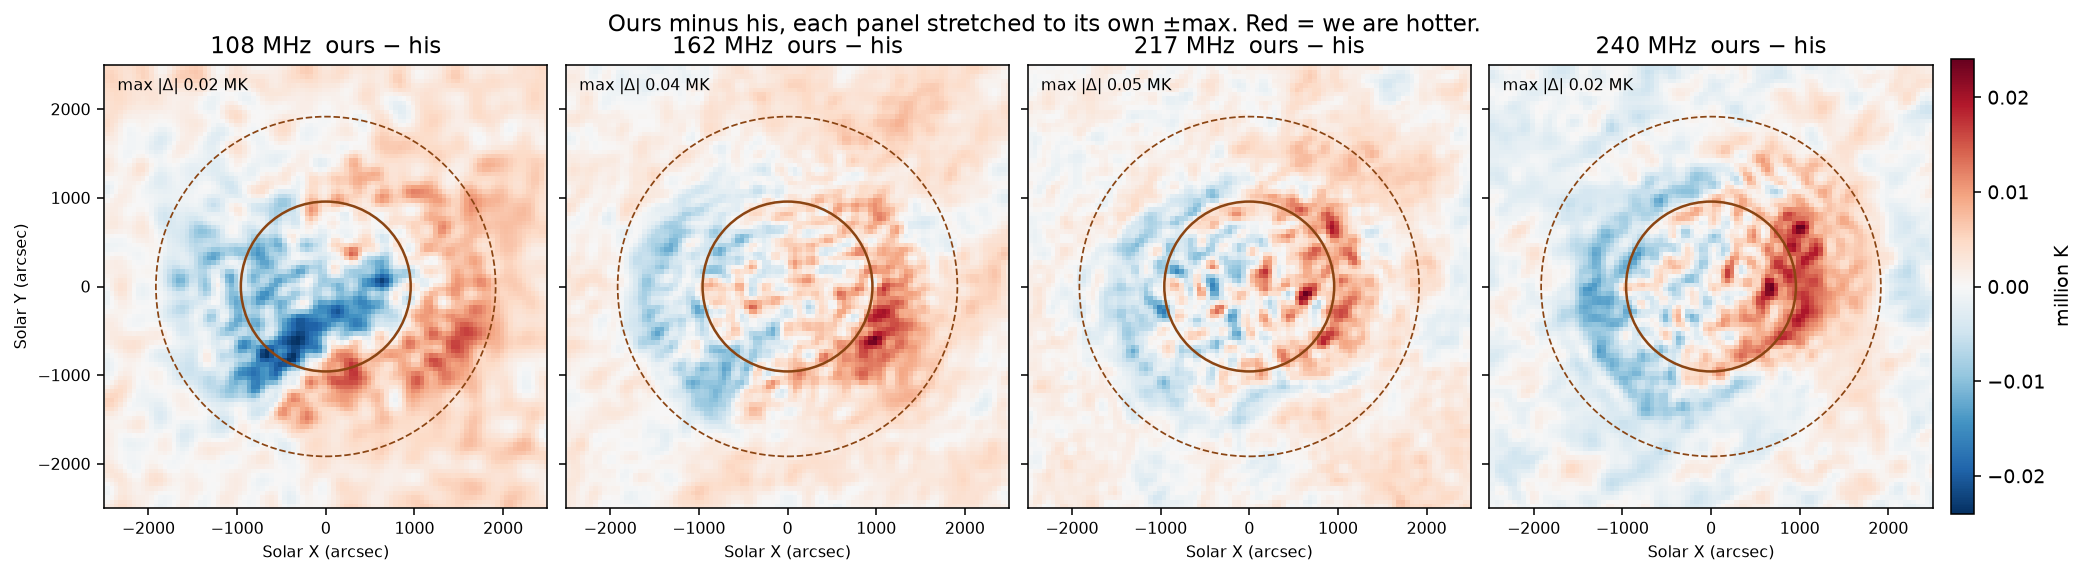
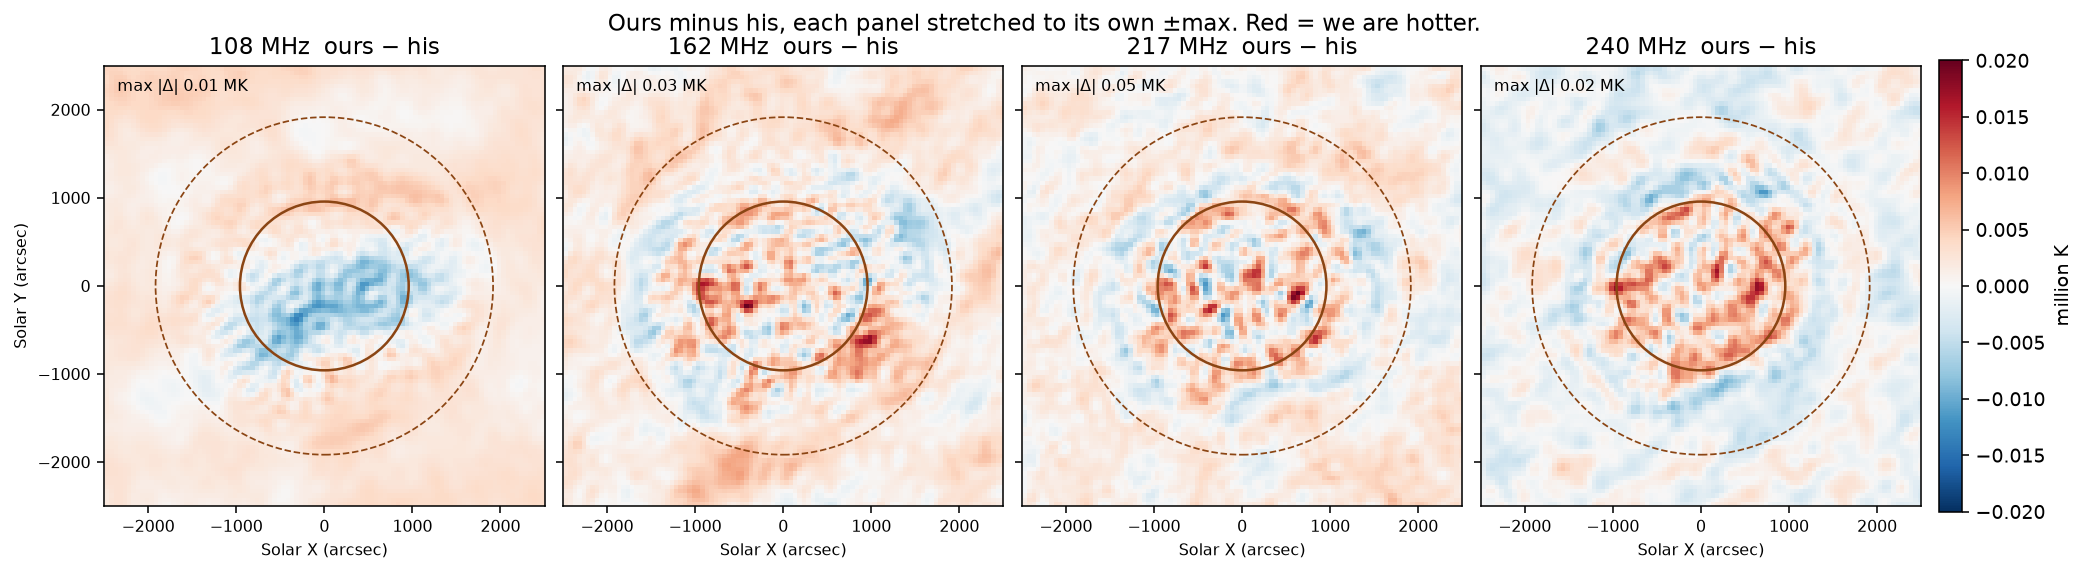
Name the brightness-temperature conversion, not a 'kelvin stretch'.
The comparison pictures now use all 570 frames in each band.

diff --git a/scripts/sharma2020_pipeline.py b/scripts/sharma2020_pipeline.py
@@ -8,13 +8,14 @@ Two pieces, matching §4 of the paper:
    ``python scripts/sharma2020_fits_history.py``. Re-imaging with those
    numbers is ``scripts/calculon/sharma2020_casa_snap.py`` (no CASA here).
 
-2. Kelvin — Oberoi 2017 whole-Sun flux, then Mohan & Oberoi 2017 F(ν) on
-   **each** 0.5 s map (5σ radio Sun), then the time mean of T_B.
+2. Brightness temperature — Oberoi 2017 whole-Sun flux, then Mohan &
+   Oberoi 2017 F(ν) on **each** 0.5 s map (5σ radio Sun), then the time
+   mean of T_B.
 
     python scripts/sharma2020_pipeline.py
     python scripts/sharma2020_pipeline.py --reuse
 
-Does not use the 2022 factor 9.48. Does not overwrite fig4.png.
+Does not overwrite fig4.png.
 """
 
 from __future__ import annotations
@@ -74,7 +75,10 @@ def main(argv: list[str] | None = None) -> int:
     print("Imaging (from published FITS HISTORY, not re-run here):", file=sys.stderr)
     for k, v in CLEAN.items():
         print(f"  {k:14s} {v}", file=sys.stderr)
-    print("Kelvin: per-frame Mohan F(ν) at 5σ, then time mean. No 9.48.", file=sys.stderr)
+    print(
+        "Brightness temperature: per-frame Mohan F(ν) at 5σ, then time mean.",
+        file=sys.stderr,
+    )
 
     cfg = load(args.config)
     fitsdir = local_path(cfg, cfg["remote"]["paths"]["fits"])

diff --git a/scripts/sharma2020_pipeline_diagram.py b/scripts/sharma2020_pipeline_diagram.py
@@ -118,7 +118,14 @@ def main() -> int:
     arrow(ax, (m[0] - 1.5, m[1] - m[3] / 2), (h[0], h[1] + h[3] / 2))
     arrow(ax, (m[0] + 1.5, m[1] - m[3] / 2), (o[0], o[1] + o[3] / 2))
 
-    ax.text(6.3, 3.85, "Kelvin  ·  we did this, on both sets of maps", fontsize=9, color="#555555", ha="center")
+    ax.text(
+        6.3,
+        3.85,
+        "Brightness temperature  ·  applied to both sets of maps",
+        fontsize=9,
+        color="#555555",
+        ha="center",
+    )
     s = box(
         ax,
         6.3,

diff --git a/scripts/build_fig4_notebook.py b/scripts/build_fig4_notebook.py
@@ -63,7 +63,7 @@ BANDS = ("108", "162", "217", "240")
     md("## 1. The pipeline"),
     md(
         """\
-Grey is Rohit, 2015. We did not repeat the calibrator. Blue is our imaging of his visibilities. Green is the kelvin stretch, which we ran on both his maps and ours.
+Grey is Rohit, 2015. We did not repeat the calibrator. Blue is our imaging of his visibilities. Green is the conversion to brightness temperature, applied to both his maps and ours.
 
 ```mermaid
 flowchart TD

diff --git a/scripts/sharma2020_fig4_visuals.py b/scripts/sharma2020_fig4_visuals.py
@@ -454,7 +454,7 @@ def main() -> int:
         ours,
         vmax=None,
         name="fig4_his_vs_ours_shape.png",
-        subtitle="Each panel stretched to its own peak — look at shape, ignore the kelvin number.",
+        subtitle="Each panel scaled to its own peak, so that the spatial structure can be compared.",
     )
     fig, axes = plt.subplots(1, 4, figsize=(14.8, 3.9), constrained_layout=True)
     last = None

diff --git a/docs/sharma2020-pipeline.md b/docs/sharma2020-pipeline.md
@@ -4,8 +4,8 @@ Sharma & Oberoi (2020, ApJ 903, 126), quiet scan `1133149192`,
 03:39:36–03:44:32 UT, bands 108, 162, 217 and 240 MHz.
 
 Grey is Rohit, 2015. We did not repeat the calibrator. Blue is our imaging
-of his visibilities. Green is the kelvin stretch, which we ran on both
-his maps and ours.
+of his visibilities. Green is the conversion to brightness temperature,
+applied to both his maps and ours.
 
 ```mermaid
 flowchart TD
@@ -48,7 +48,7 @@ python scripts/sharma2020_fits_history.py
 A previous remake used Briggs robust 0 and 2500 iterations. That is **not**
 what these FITS are.
 
-## Kelvin (paper §4)
+## Brightness temperature (paper §4)
 
 1. Whole-Sun flux `S_⊙` from Oberoi, Sharma & Rogers (2017) on the
    visibilities (short baselines Tile011/021/022/023, Haslam 1982 sky at

diff --git a/docs/asvo-request-1133149192.md b/docs/asvo-request-1133149192.md
@@ -98,8 +98,9 @@ Leave Rohit's tree untouched.
 
 1. Solve Cen A on those four pairs. Apply to the 0.5 s Sun set.
 2. Image 570 frames per band with the published `clean` settings
-   (CASA 6.6 `tclean` in this installation). Then the Oberoi / Mohan
-   kelvin stretch.
+   (CASA 6.6 `tclean` in this installation). Then convert each map to
+   brightness temperature with Oberoi et al. (2017) and Mohan & Oberoi
+   (2017).
 
 Rohit's `.cal.p` tables stay as a record of *his* solutions, not as
 input to the new measurement sets.
